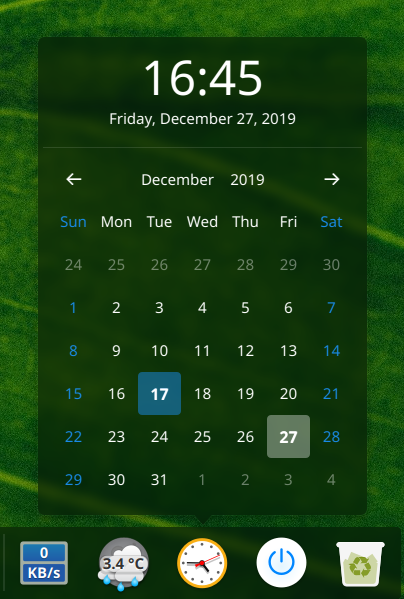
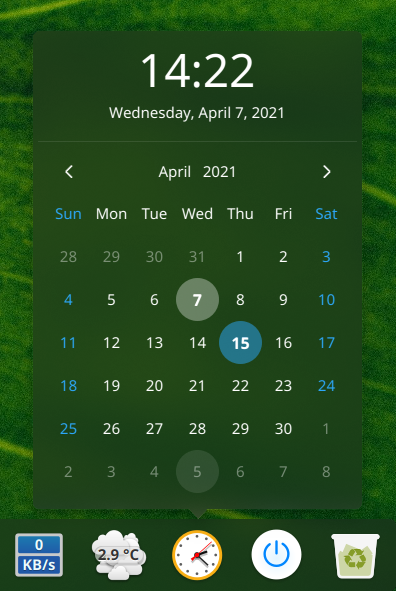
Add files via upload

diff --git a/README.md b/README.md
@@ -4,13 +4,17 @@ DDE Dock Clock Plugin
 This is a clock plugin with a calendar, lunar phases and zodiac signs for deepin-dock, with customization of the format and theme.
 
 ![alt](01_preview.png)
+![alt](04_preview.png)
+![alt](05_preview.png)
 ![alt](02_efficient.png)
 ![alt](03_settings.png)
 
 ### Installation Guide ###
 Compiling using Qt Creator or using the following command:
 ```
-qmake
+mkdir build
+cd build
+qmake ..
 make
 ```
 Installation: 
@@ -24,6 +28,7 @@ Uninstall:
 ```
 
 ### Changes ###
+Ver 1.3 - added selection of months and years
 Ver 1.2 - added lunar phases and zodiac signs (double click to show or hide)
 
 ### Acknowledgment ###
